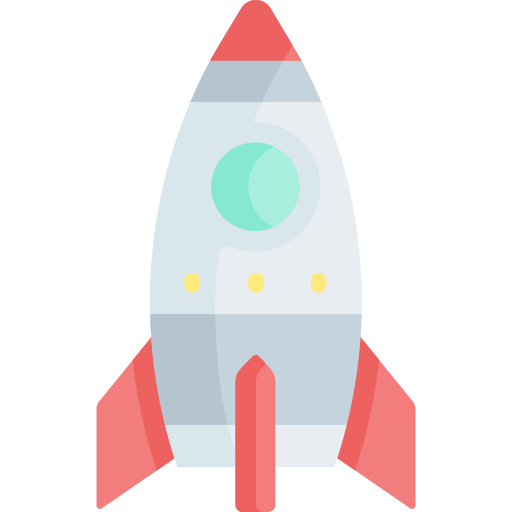
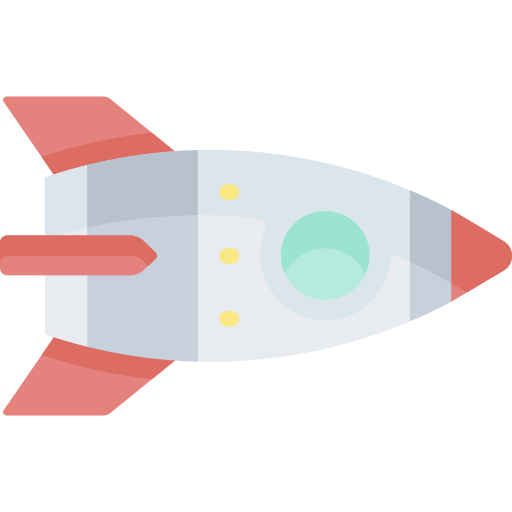
Play, stop, accelerate and reset button added + background

diff --git a/README.md b/README.md
@@ -1,1 +1,11 @@
 # orbital-trajectories 
+
+Orbital Trajectories is a minimal physics engine built with Godot that simulates Newton’s law of universal gravitation.
+It allows you to create planets and spaceships, assign them initial velocities, and observe how gravitational forces affect their motion over time.
+The goal of this project is educational.
+
+TODO:
+- Reset, stop, play button
+- Placing and movement of spaceships and planets.
+- Give an initial velocity to objects.
+
